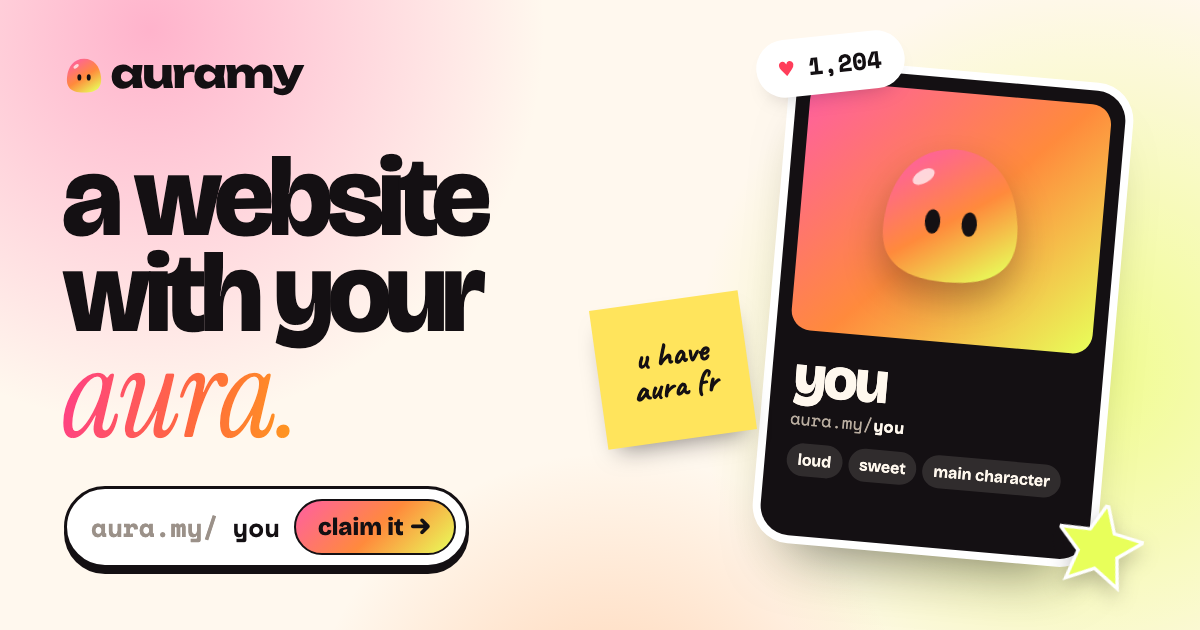
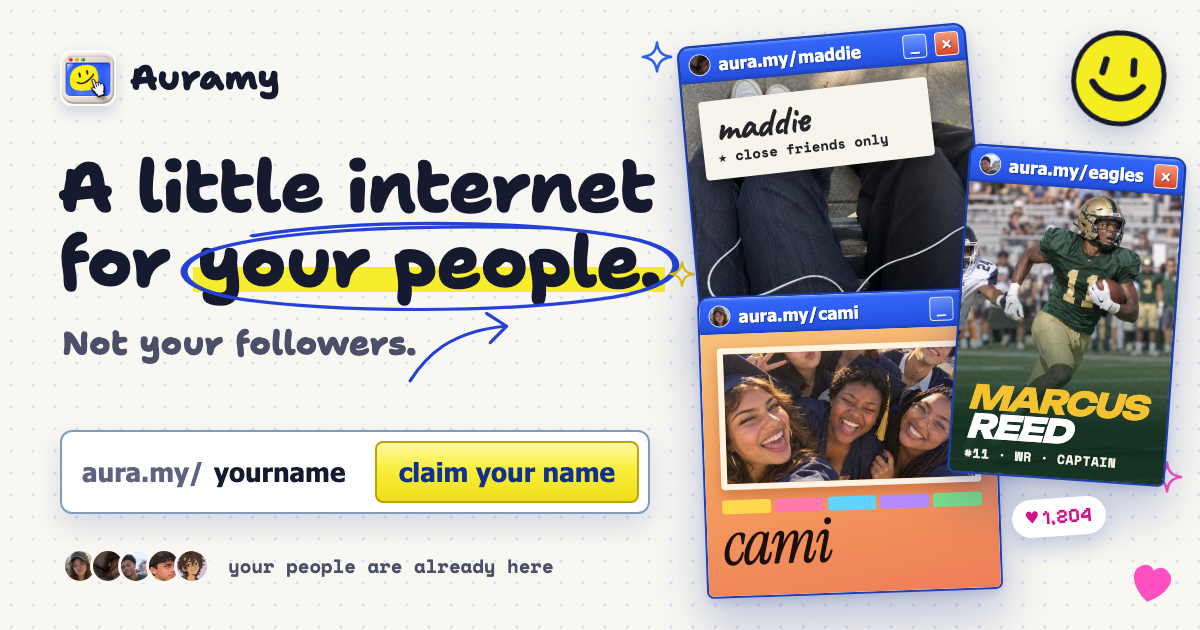
Add an early-web share card for link previews
New 1200x630 og.png in the current style: cream dot grid, the handwritten
"A little internet for your people." with a crayon marker and pen circle,
an XP address bar with the claim button, and three friends' pages
(Maddie, Marcus, Camila) as overlapping XP windows. Open Graph and
Twitter tags now point at it with real dimensions and alt text; the
render script takes PORT.

diff --git a/site/_render/og.html b/site/_render/og.html
@@ -1,33 +1,102 @@
-<!doctype html><html><head><meta charset="utf-8">
-<link href="https://fonts.googleapis.com/css2?family=Bricolage+Grotesque:opsz,wght@12..96,400..800&family=Caveat:wght@700&family=Instrument+Serif:ital@1&family=Space+Mono:wght@400;700&display=swap" rel="stylesheet">
-<link rel="stylesheet" href="/assets/css/tokens.css">
+<!doctype html>
+<html lang="en">
+<head>
+<meta charset="utf-8">
+<title>Auramy share card</title>
+<!-- 1200×630 share card in the early-web style. Rendered by tools/render-png.sh → /assets/img/og.png -->
+<link href="https://fonts.googleapis.com/css2?family=Caveat:wght@700&family=Instrument+Serif:ital@1&family=Pixelify+Sans:wght@600&family=Shantell+Sans:wght,INFM@800,45&family=Space+Mono:wght@700&family=Unbounded:wght@800&display=block" rel="stylesheet">
 <style>
-html,body{margin:0;width:1200px;height:630px;overflow:hidden}
-body{position:relative;background:#FFF8EE;font-family:var(--f-display);color:#141013}
-.a1{position:absolute;width:900px;height:900px;left:-300px;top:-420px;border-radius:50%;background:radial-gradient(circle,rgba(255,95,162,.45),transparent 62%)}
-.a2{position:absolute;width:900px;height:900px;right:-340px;top:-80px;border-radius:50%;background:radial-gradient(circle,rgba(232,255,90,.65),transparent 62%)}
-.a3{position:absolute;width:700px;height:700px;left:260px;bottom:-480px;border-radius:50%;background:radial-gradient(circle,rgba(255,138,60,.35),transparent 62%)}
-.logo{position:absolute;left:64px;top:56px;height:40px}
-h1{position:absolute;left:62px;top:150px;margin:0;font-weight:800;font-size:112px;line-height:.86;letter-spacing:-.055em;font-variation-settings:"opsz" 96}
-h1 em{font-family:var(--f-serif);font-style:italic;font-weight:400;letter-spacing:-.02em;font-size:1.1em;background:linear-gradient(100deg,#ff3d8b,#ff6a3d 55%,#ff9f1a);-webkit-background-clip:text;background-clip:text;color:transparent;padding-right:.05em}
-.claim{position:absolute;left:64px;bottom:62px;display:flex;align-items:center;gap:14px;padding:10px 10px 10px 24px;border:3px solid #141013;border-radius:99px;background:#fff;box-shadow:0 6px 0 #141013;font:700 26px/1 var(--f-mono)}
-.claim span{color:#9b9189}.claim b{padding:14px 22px;border-radius:99px;background:var(--aura-candy);border:2px solid #141013;font-family:var(--f-display);font-size:24px}
-.card{position:absolute;right:92px;top:78px;width:330px;height:470px;border-radius:30px;background:#141013;box-shadow:0 0 0 8px #fff,0 40px 60px -30px rgba(20,16,19,.6);transform:rotate(5deg);padding:14px;box-sizing:border-box}
-.art{height:250px;border-radius:20px;background:var(--aura-candy);display:grid;place-items:center}
-.art img{width:170px;filter:drop-shadow(0 18px 18px rgba(20,16,19,.3))}
-.nm{margin:18px 8px 4px;color:#FFF8EE;font-weight:800;font-size:58px;letter-spacing:-.05em;line-height:1}
-.url{margin:0 8px;color:#b9ada0;font:400 17px/1 var(--f-mono)}.url b{color:#fff8ee}
-.chips{display:flex;gap:6px;margin:16px 8px 0}.chips i{font-style:normal;padding:7px 11px;border-radius:99px;background:rgba(255,248,238,.12);color:#fff8ee;font-weight:600;font-size:16px}
-.note{position:absolute;right:452px;top:300px;width:150px;height:140px;background:#FFE45C;transform:rotate(-8deg);display:grid;place-items:center;text-align:center;font:700 34px/.95 var(--f-hand);box-shadow:0 14px 24px -12px rgba(20,16,19,.5)}
-.likes{position:absolute;right:300px;top:40px;padding:12px 18px;border-radius:99px;background:#fff;box-shadow:0 0 0 5px #fff,0 12px 24px -12px rgba(20,16,19,.4);font:700 24px/1 var(--f-mono);transform:rotate(-6deg)}.likes i{font-style:normal;color:#FF3D5A}
-.star{position:absolute;right:58px;bottom:40px;width:86px;fill:#E8FF5A;stroke:#fff;stroke-width:8;paint-order:stroke;filter:drop-shadow(0 8px 10px rgba(20,16,19,.25));transform:rotate(12deg)}
-</style></head><body>
-<i class="a1"></i><i class="a2"></i><i class="a3"></i>
-<img class="logo" src="/assets/logo/auramy-lockup.svg">
-<h1>a website<br>with your<br><em>aura.</em></h1>
-<div class="claim"><span>aura.my/</span>you<b>claim it →</b></div>
-<div class="card"><div class="art"><img src="/assets/logo/auramy-mark.svg"></div><p class="nm">you</p><p class="url">aura.my/<b>you</b></p><div class="chips"><i>loud</i><i>sweet</i><i>main character</i></div></div>
-<div class="note">u have<br>aura fr</div>
-<div class="likes"><i>♥</i> 1,204</div>
-<svg class="star" viewBox="0 0 100 100"><path d="M50 4l12.9 29.2 31.8 3.2-23.8 21.3 6.8 31.2L50 73 22.3 88.9l6.8-31.2L5.3 36.4l31.8-3.2Z"/></svg>
-</body></html>
+  :root { --led: #2f5ef6; --ink: #161a2e; --soft: #4b5068; --crayon: #f6ec22; --pen: #2541d8;
+    --title: linear-gradient(180deg, #6b95ff 0%, #3466f7 10%, #2d5cf0 50%, #2450dc 88%, #1d40b8 100%); }
+  * { box-sizing: border-box; margin: 0; }
+  html, body { width: 1200px; height: 630px; overflow: hidden; }
+  body { position: relative; background: radial-gradient(rgba(47, 94, 246, .16) 1.3px, transparent 1.8px) 0 0 / 22px 22px, #f8f7f2; color: var(--ink); font-family: "Shantell Sans", system-ui, sans-serif; }
+  svg.d { position: absolute; overflow: visible; fill: none; stroke: currentColor; stroke-width: 3; stroke-linecap: round; stroke-linejoin: round; }
+
+  .brand { position: absolute; left: 60px; top: 50px; display: flex; align-items: center; gap: 14px; font: 800 36px/1 "Shantell Sans"; font-variation-settings: "INFM" 45; }
+  .brand img { width: 56px; height: 56px; border-radius: 12px; box-shadow: 0 6px 14px rgba(18, 48, 143, .18); }
+
+  h1 { position: absolute; left: 58px; top: 150px; width: 660px; font: 800 72px/1.04 "Shantell Sans"; font-variation-settings: "INFM" 45; letter-spacing: -.02em; }
+  h1 .people { position: relative; display: inline-block; padding: 0 .06em; background: linear-gradient(180deg, transparent 56%, rgba(246, 236, 34, .95) 56% 90%, transparent 90%); }
+  h1 .people svg { left: -6%; top: -14%; width: 112%; height: 132%; color: var(--pen); stroke-width: 3.2; }
+  .sub { position: absolute; left: 62px; top: 326px; color: var(--soft); font: 800 34px/1 "Shantell Sans"; font-variation-settings: "INFM" 45; }
+  .sub svg { left: 340px; top: -18px; width: 120px; height: 82px; color: var(--pen); stroke-width: 3.5; }
+
+  .addr { position: absolute; left: 60px; top: 430px; display: flex; align-items: center; gap: 10px; width: 590px; padding: 9px 9px 9px 20px; border: 2px solid #7f9db9; border-radius: 12px; background: #fff; box-shadow: 0 12px 26px rgba(18, 48, 143, .14); font: 700 26px/1 Tahoma, Verdana, sans-serif; }
+  .addr span { color: #5e6480; }
+  .addr b { flex: 1; color: var(--ink); }
+  .addr i { padding: 16px 22px; border: 2px solid #b9a40a; border-radius: 8px; background: linear-gradient(180deg, #fff8a2 0%, #f9ef3c 45%, #eedd16 100%); color: #12308f; font-style: normal; white-space: nowrap; }
+  .foot { position: absolute; left: 62px; top: 548px; display: flex; align-items: center; gap: 10px; color: var(--soft); font: 700 19px/1 "Space Mono", monospace; }
+  .foot img { width: 36px; height: 36px; margin-right: -18px; border: 3px solid #f8f7f2; border-radius: 50%; object-fit: cover; }
+  .foot span { margin-left: 26px; }
+
+  /* the windows: three friends, three worlds */
+  .win { position: absolute; overflow: hidden; border: 2px solid #1d3fb5; border-radius: 12px 12px 7px 7px; background: #fff; box-shadow: 0 26px 50px rgba(18, 48, 143, .26), 0 4px 10px rgba(18, 48, 143, .14); }
+  .bar { display: flex; align-items: center; gap: 8px; height: 36px; padding: 0 6px 0 9px; background: var(--title); color: #fff; font: 700 17px/1 Tahoma, Verdana, sans-serif; text-shadow: 1px 1px 0 rgba(10, 30, 110, .55); }
+  .bar img { width: 22px; height: 22px; border-radius: 50%; object-fit: cover; border: 1px solid rgba(255, 255, 255, .8); }
+  .bar b { flex: 1; }
+  .bar span { display: grid; place-items: center; width: 24px; height: 24px; border: 1px solid rgba(255, 255, 255, .9); border-radius: 4px; background: linear-gradient(180deg, #6f98ff, #2c5be9); font-size: 14px; }
+  .bar span.x { background: linear-gradient(180deg, #f39a7a, #d8431f); }
+  .shot { display: block; width: 100%; object-fit: cover; }
+
+  .maddie { z-index: 1; left: 688px; top: 34px; width: 290px; transform: rotate(-5deg); background: #2a2c2e; }
+  .maddie .shot { height: 250px; filter: saturate(.9); }
+  .maddie .note { position: absolute; left: 16px; right: 40px; top: 16px; padding: 10px 14px 12px; border-radius: 4px; background: #f7f4ec; color: #23252a; transform: rotate(-1.5deg); box-shadow: 0 6px 14px rgba(0, 0, 0, .35); }
+  .maddie .note b { display: block; font: 700 40px/.9 "Caveat", cursive; }
+  .maddie .note small { font: 700 14px/1 "Space Mono", monospace; }
+  .maddie .body { position: relative; height: 250px; }
+
+  .marcus { z-index: 3; left: 958px; top: 150px; width: 218px; transform: rotate(4deg); background: #0d2b1d; }
+  .marcus .body { position: relative; height: 290px; }
+  .marcus .shot { height: 290px; object-position: 46% 30%; }
+  .marcus .body::after { content: ""; position: absolute; inset: 0; background: linear-gradient(180deg, transparent 35%, rgba(13, 43, 29, .92) 82%); }
+  .marcus h3 { position: absolute; z-index: 1; left: 14px; bottom: 32px; font: italic 800 33px/.86 "Unbounded", sans-serif; letter-spacing: -.06em; }
+  .marcus h3 span { display: block; color: #f2c230; }
+  .marcus h3 span + span { color: #fff; }
+  .marcus p { position: absolute; z-index: 1; left: 14px; bottom: 12px; color: #f4f1e6; font: 700 13px/1 "Space Mono", monospace; letter-spacing: .04em; }
+
+  .camila { z-index: 2; left: 702px; top: 292px; width: 296px; transform: rotate(-2deg); }
+  .camila .body { position: relative; height: 262px; padding: 14px 16px 0; background: linear-gradient(170deg, #f7c27a, #f39a5c 55%, #ef7d58); }
+  .camila .shot { height: 142px; border: 6px solid #fff4e2; border-radius: 4px; box-shadow: 0 6px 14px rgba(120, 40, 10, .3); }
+  .camila .clips { display: flex; gap: 4px; height: 14px; margin-top: 10px; }
+  .camila .clips i { flex: 1; border-radius: 3px; }
+  .camila h3 { margin-top: 6px; color: #1d0f08; font: italic 400 62px/.8 "Instrument Serif", serif; letter-spacing: -.03em; }
+
+  .smile { right: 30px; top: 26px; width: 104px; height: 104px; transform: rotate(10deg); filter: drop-shadow(0 10px 14px rgba(18, 48, 143, .25)); stroke: none; }
+  .spark { color: var(--pop, #ff4fc3); stroke: none; fill: currentColor; }
+  .heart { right: 26px; top: 560px; width: 46px; height: 46px; color: #ff4fc3; transform: rotate(12deg); stroke: none; }
+  .like { position: absolute; z-index: 4; left: 1012px; top: 498px; display: flex; align-items: center; gap: 8px; padding: 9px 14px; border-radius: 999px; background: #fff; box-shadow: 0 10px 22px rgba(18, 48, 143, .2); color: #d4148f; font: 700 20px/1 "Pixelify Sans", monospace; transform: rotate(-4deg); }
+</style>
+</head>
+<body>
+  <p class="brand"><img src="/assets/img/brand/auramy-monitor.jpg" alt="">Auramy</p>
+
+  <h1>A little internet<br>for <span class="people">your people.<svg class="d" viewBox="0 0 240 100" preserveAspectRatio="none"><path d="M40 22C82 6 162 4 210 24c30 13 30 46-6 60-48 17-128 16-170 2C6 76 0 52 22 36c26-18 86-26 150-22"/></svg></span></h1>
+  <p class="sub">Not your followers.<svg class="d" viewBox="0 0 130 90"><path d="M8 80C26 52 52 26 112 20"/><path d="M92 6l22 14-18 18"/></svg></p>
+
+  <p class="addr"><span>aura.my/</span><b>yourname</b><i>claim your name</i></p>
+  <p class="foot"><img src="/assets/img/av/camila.jpg" alt=""><img src="/assets/img/av/maddie.jpg" alt=""><img src="/assets/img/av/marcus.jpg" alt=""><img src="/assets/img/av/jayden.jpg" alt=""><img src="/assets/img/av/river.jpg" alt=""><span>your people are already here</span></p>
+
+  <article class="win maddie">
+    <header class="bar"><img src="/assets/img/av/maddie.jpg" alt=""><b>aura.my/maddie</b><span>_</span><span class="x">×</span></header>
+    <div class="body"><img class="shot" src="/assets/img/personas/maddie/p04-shared-earbuds.jpg" alt=""><p class="note"><b>maddie</b><small>★ close friends only</small></p></div>
+  </article>
+
+  <article class="win marcus">
+    <header class="bar"><img src="/assets/img/av/marcus.jpg" alt=""><b>aura.my/eagles</b><span class="x">×</span></header>
+    <div class="body"><img class="shot" src="/assets/img/personas/marcus/mc02-day-game-run-after-catch.jpg" alt=""><h3><span>MARCUS</span><span>REED</span></h3><p>#11 · WR · CAPTAIN</p></div>
+  </article>
+
+  <article class="win camila">
+    <header class="bar"><img src="/assets/img/av/camila.jpg" alt=""><b>aura.my/cami</b><span>_</span><span class="x">×</span></header>
+    <div class="body"><img class="shot" src="/assets/img/personas/camila/c01-graduation-selfie.jpg" alt=""><p class="clips"><i style="background:#ffd84d"></i><i style="background:#ff7aa8"></i><i style="background:#62d2ff"></i><i style="background:#b48cff"></i><i style="background:#7ee08a"></i></p><h3>cami</h3></div>
+  </article>
+
+  <p class="like">♥ 1,204</p>
+  <svg class="d smile" viewBox="0 0 64 64"><path fill="#f6ec22" d="M32 4c17-1 29 12 28 29-1 17-13 28-29 27C15 59 4 47 5 31 6 15 17 5 32 4Z"/><path fill="none" stroke="#161a2e" stroke-width="4" d="M23 22l-1 8M40 20l1 8M17 37c8 10 24 10 31-2"/></svg>
+  <svg class="d spark" viewBox="0 0 40 40" style="left:640px;top:40px;width:34px;height:34px;--pop:#2f5ef6"><path d="M20 3c1.4 10.6 5.6 15.4 16.6 17-11 1.6-15.2 6.2-16.6 17-1.4-10.8-5.6-15.4-16.6-17C14.4 18.4 18.6 13.6 20 3Z"/></svg>
+  <svg class="d spark" viewBox="0 0 40 40" style="left:1150px;top:460px;width:34px;height:34px"><path d="M20 3c1.4 10.6 5.6 15.4 16.6 17-11 1.6-15.2 6.2-16.6 17-1.4-10.8-5.6-15.4-16.6-17C14.4 18.4 18.6 13.6 20 3Z"/></svg>
+  <svg class="d spark" viewBox="0 0 40 40" style="left:668px;top:260px;width:28px;height:28px;--pop:#e8c400"><path d="M20 3c1.4 10.6 5.6 15.4 16.6 17-11 1.6-15.2 6.2-16.6 17-1.4-10.8-5.6-15.4-16.6-17C14.4 18.4 18.6 13.6 20 3Z"/></svg>
+  <svg class="d heart" viewBox="0 0 40 40"><path fill="currentColor" d="M20 35C5 25 2 13 10 8c5-3 9 0 10 5 2-6 7-8 11-5 8 5 4 17-11 27Z"/></svg>
+</body>
+</html>

diff --git a/site/index.html b/site/index.html
@@ -10,13 +10,20 @@
   <link rel="icon" href="/assets/img/brand/auramy-monitor.jpg?v=materials-8" type="image/jpeg">
   <link rel="apple-touch-icon" href="/assets/img/brand/auramy-monitor.jpg?v=materials-8">
   <meta property="og:type" content="website">
+  <meta property="og:site_name" content="Auramy">
+  <meta property="og:url" content="https://auramy-flax.vercel.app/">
   <meta property="og:title" content="Auramy · a little internet for your people">
-  <meta property="og:description" content="For your people, not your followers. Friends open it, poke it, play it, sign it. No app needed.">
-  <meta property="og:image" content="https://auramy-flax.vercel.app/assets/img/brand/auramy-monitor.jpg?v=materials-8">
-  <meta property="og:image:width" content="1254">
-  <meta property="og:image:height" content="1254">
-  <meta property="og:image:alt" content="Auramy's smiling yellow computer monitor logo">
+  <meta property="og:description" content="For your people, not your followers. Make a little world for the group chat, the team, the memes, the OC or the shop. Friends open it, poke it, play it, sign it.">
+  <meta property="og:image" content="https://auramy-flax.vercel.app/assets/img/og.png?v=early-web-1">
+  <meta property="og:image:type" content="image/png">
+  <meta property="og:image:width" content="1200">
+  <meta property="og:image:height" content="630">
+  <meta property="og:image:alt" content="Auramy: a little internet for your people. Three friends' pages in early-web windows next to an aura.my/yourname claim box.">
   <meta name="twitter:card" content="summary_large_image">
+  <meta name="twitter:title" content="Auramy · a little internet for your people">
+  <meta name="twitter:description" content="For your people, not your followers. Make a little world your friends can open, poke, play and sign.">
+  <meta name="twitter:image" content="https://auramy-flax.vercel.app/assets/img/og.png?v=early-web-1">
+  <meta name="twitter:image:alt" content="Auramy: a little internet for your people.">
   <link rel="preconnect" href="https://fonts.googleapis.com">
   <link rel="preconnect" href="https://fonts.gstatic.com" crossorigin>
   <link href="https://fonts.googleapis.com/css2?family=Anton&family=Caveat:wght@500;700&family=Instrument+Serif:ital@0;1&family=Pixelify+Sans:wght@400..700&family=Shantell+Sans:wght,INFM@300..800,0..100&family=Space+Mono:wght@400;700&family=Unbounded:wght@700;800&display=swap" rel="stylesheet">
